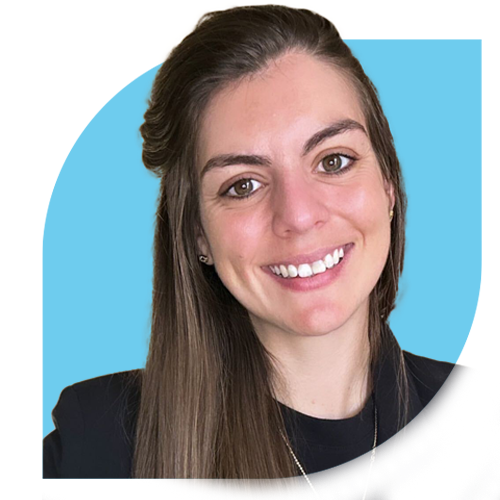
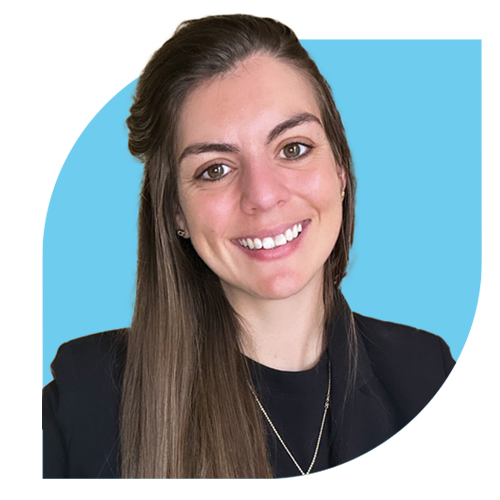
updates

diff --git a/index.html b/index.html
@@ -851,7 +851,7 @@
                                         style="line-height: 10px"
                                       >
                                         <img
-                                          src="https://daef91208a.imgdist.com/public/users/Integrators/BeeProAgency/1058524_1043716/leslie_van_zelst-test.png"
+                                          src="https://myview-webinar.netlify.app/img/leslie.png"
                                           style="
                                             display: block;
                                             height: auto;
@@ -1024,7 +1024,7 @@
                                       style="line-height: 10px"
                                     >
                                       <img
-                                        src="https://daef91208a.imgdist.com/public/users/Integrators/BeeProAgency/1058524_1043716/leslie_van_zelst-test-2.png"
+                                        src="https://myview-webinar.netlify.app/img/lais.png"
                                         style="
                                           display: block;
                                           height: auto;
